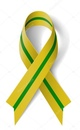
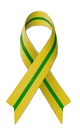
55-th commit, add georgievskaya-lentochka.png

diff --git a/static/js/main.cbbb3d41.chunk.js b/static/js/main.cbbb3d41.chunk.js
@@ -1,0 +1,2 @@
+(this["webpackJsonpmy-app"]=this["webpackJsonpmy-app"]||[]).push([[0],{12:function(t,e,s){},13:function(t,e,s){},15:function(t,e,s){"use strict";s.r(e);var i=s(1),r=s.n(i),o=s(5),l=s.n(o),a=(s(12),[{id:1,urlSite:"https://shal-work.github.io/lending_hotel/",img:"assets/jmg/\u0421\u0430\u0439\u0442_lending_hotel_300_200.jpg",title:"29.11.2021. \u041b\u0435\u043d\u0434\u0438\u043d\u0433 \u0438\u0437 WordPress",urlGithub:"https://github.com/shal-work/lending_hotel",info:"GulpJS",urlLogo:"assets/jmg/file_type_gulp_icon_130557.svg"},{id:2,urlSite:"https://shal-work.github.io/homepage_restaurent/",img:"assets/jmg/\u0421\u0430\u0439\u0442_homepage_restaurent_300_200.jpg",title:"21.12.2021. \u041b\u0435\u043d\u0434\u0438\u043d\u0433 \u0438\u0437 WordPress",urlGithub:"https://github.com/shal-work/homepage_restaurent",info:"GulpJS",urlLogo:"assets/jmg/file_type_gulp_icon_130557.svg"},{id:3,urlSite:"https://shal-work.github.io/donate_computer/",img:"assets/jmg/\u0421\u0430\u0439\u0442_donate_computer_300_200.jpg",title:"13.01.2022. \u041b\u0435\u043d\u0434\u0438\u043d\u0433 \u0438\u0437 WordPress",urlGithub:"https://github.com/shal-work/donate_computer",info:"GulpJS",urlLogo:"assets/jmg/file_type_gulp_icon_130557.svg"},{id:4,urlSite:"https://shal-work.github.io/under_construction/",img:"assets/jmg/\u0421\u0430\u0439\u0442_under_construction_300_200.jpg",title:"17.01.2022. \u041b\u0435\u043d\u0434\u0438\u043d\u0433 \u0438\u0437 WordPress",urlGithub:"https://github.com/shal-work/under_construction",info:"GulpJS",urlLogo:"assets/jmg/file_type_gulp_icon_130557.svg"},{id:5,urlSite:"https://shal-work.github.io/ceramic-studio/",img:"assets/jmg/\u0421\u0430\u0439\u0442_ceramic-studio_300_200.jpg",title:"09.02.2022. \u041b\u0435\u043d\u0434\u0438\u043d\u0433 \u0438\u0437 WordPress",urlGithub:"https://github.com/shal-work/ceramic-studio",info:"GulpJS",urlLogo:"assets/jmg/file_type_gulp_icon_130557.svg"},{id:6,urlSite:"https://shal-work.github.io/restaurent/",img:"assets/jmg/\u0421\u0430\u0439\u0442_restaurent_300_200.jpg",title:"20.03.2022. \u041b\u0435\u043d\u0434\u0438\u043d\u0433 \u0438\u0437 WordPress",urlGithub:"https://github.com/shal-work/restaurent",info:"GulpJS",urlLogo:"assets/jmg/file_type_gulp_icon_130557.svg"},{id:7,urlSite:"https://shal-work.github.io/bakery/",img:"assets/jmg/\u0421\u0430\u0439\u0442_bakery_300_200.jpg",title:"11.04.2022. \u041b\u0435\u043d\u0434\u0438\u043d\u0433 \u0438\u0437 WordPress",urlGithub:"https://github.com/shal-work/bakery",info:"GulpJS",urlLogo:"assets/jmg/file_type_gulp_icon_130557.svg"},{id:8,urlSite:"https://shal-work.github.io/repin/",img:"assets/jmg/\u0421\u0430\u0439\u0442_\u0420\u0435\u043f\u0438\u043d_300_200.jpg",title:"5.04.2021. \u0420\u0435\u043f\u0438\u043d",urlGithub:"https://github.com/shal-work/repin",info:"GulpJS",urlLogo:"assets/jmg/file_type_gulp_icon_130557.svg"},{id:9,urlSite:"https://shal-work.github.io/ladoga/",img:"assets/jmg/\u0421\u0430\u0439\u0442_\u0432\u043e\u043a\u0440\u0443\u0433_\u043b\u0430\u0434\u043e\u0433\u0438_300_200.jpg",title:"14.02.2021. \u0412\u043e\u043a\u0440\u0443\u0433 \u041b\u0430\u0434\u043e\u0433\u0438",urlGithub:"https://github.com/shal-work/ladoga",info:"GulpJS",urlLogo:"assets/jmg/file_type_gulp_icon_130557.svg"},{id:10,urlSite:"https://shal-work.github.io/fishing/",img:"assets/jmg/\u0421\u0430\u0439\u0442_\u043f\u0440\u0430\u0432\u0438\u043b\u0430_\u0440\u044b\u0431\u043e\u043b\u043e\u0432\u0441\u0442\u0432\u0430_300_200.jpg",title:"21.10.2021. \u041f\u0440\u0430\u0432\u0438\u043b\u0430 \u0440\u044b\u0431\u0430\u043b\u043e\u0432\u0441\u0442\u0432\u0430 \u0441 \u043a\u0430\u0440\u0442\u0438\u043d\u043a\u0430\u043c\u0438",urlGithub:"https://github.com/shal-work/fishing",info:"GulpJS",urlLogo:"assets/jmg/file_type_gulp_icon_130557.svg"},{id:11,urlSite:"https://shal-work.github.io/south/",img:"assets/jmg/\u0421\u0430\u0439\u0442_\u043f\u043e\u0435\u0437\u0434\u043a\u0430_\u043d\u0430_\u044e\u0433_300_200.jpg",title:"07.07.2021. \u041f\u043e\u0434\u0433\u043e\u0442\u043e\u0432\u043a\u0430 \u043a \u043f\u043e\u0435\u0437\u0434\u043a\u0435 \u043d\u0430 \u042e\u0433",urlGithub:"https://github.com/shal-work/south",info:"GulpJS",urlLogo:"assets/jmg/file_type_gulp_icon_130557.svg"},{id:12,urlSite:"https://shal-work.github.io/biorhythm/",img:"assets/jmg/\u0421\u0430\u0439\u0442_\u0431\u0438\u043e\u0440\u0438\u0442\u043c\u044b_300_200.jpg",title:"31.03.2021 \u0411\u0438\u043e\u0440\u0438\u0442\u043c\u044b",urlGithub:"https://github.com/shal-work/biorhythm",info:"GulpJS",urlLogo:"assets/jmg/file_type_gulp_icon_130557.svg"},{id:13,urlSite:"https://shal-work.github.io/test-task2/",img:"assets/jmg/\u0421\u0430\u0439\u0442_test-task2_300_200.jpg",title:"12.06.2022. \u0422\u0435\u0441\u0442",urlGithub:"https://github.com/shal-work/test-task2",info:"React",urlLogo:"https://upload.wikimedia.org/wikipedia/commons/thumb/a/a7/React-icon.svg/113px-React-icon.svg.png"},{id:15,urlSite:"https://shal-work.github.io/lessonYandex_4/",img:"assets/jmg/\u0421\u0430\u0439\u0442_\u0443\u0440\u043e\u043a_\u044f\u043d\u0434\u0435\u043a\u0441_300_200.jpg",title:"29.09.2021. \u0412\u0445\u043e\u0434\u043d\u043e\u0435 \u0442\u0435\u0441\u0442\u0438\u0440\u043e\u0432\u0430\u043d\u0438\u0435 Yandex",urlGithub:"https://github.com/shal-work/lessonYandex_4",info:"GulpJS",urlLogo:"assets/jmg/file_type_gulp_icon_130557.svg"},{id:16,urlSite:"https://shal-work.github.io/roof/",img:"assets/jmg/\u0421\u0430\u0439\u0442_roof_300_200.jpg",title:"24.06.2022. C\u0434\u0435\u043b\u0430\u0442\u044c \u0430\u0434\u0430\u043f\u0442\u0438\u0432\u043d\u0443\u044e \u0432\u0435\u0440\u0441\u0442\u043a\u0443 \u043f\u043e \u043c\u0430\u043a\u0435\u0442\u0443 (figma)+ \u043c\u0430\u0441\u043a\u0430 \u0442\u0435\u043b\u0435\u0444\u043e\u043d\u0430 + \u043e\u0442\u043f\u0440\u0430\u0432\u0438\u0442\u044c \u0434\u0430\u043d\u043d\u044b\u0445 \u043d\u0430 \u0441\u0435\u0440\u0432\u0435\u0440",urlGithub:"https://github.com/shal-work/roof",info:"GulpJS",urlLogo:"assets/jmg/file_type_gulp_icon_130557.svg"},{id:17,urlSite:"https://shal-work.github.io/ijs/",img:"assets/jmg/\u0421\u0430\u0439\u0442_\u0418\u0416\u0421_300_200.jpg",title:"27.06.2022. C\u0434\u0435\u043b\u0430\u0442\u044c \u0430\u0434\u0430\u043f\u0442\u0438\u0432\u043d\u0443\u044e \u0432\u0435\u0440\u0441\u0442\u043a\u0443 \u043f\u043e \u043c\u0430\u043a\u0435\u0442\u0443 figma",urlGithub:"https://github.com/shal-work/ijs",info:"GulpJS",urlLogo:"assets/jmg/file_type_gulp_icon_130557.svg"},{id:18,urlSite:"https://shal-work.github.io/agency/",img:"assets/jmg/\u0421\u0430\u0439\u0442_agency_300_200.jpg",title:"15.07.2022. C\u0434\u0435\u043b\u0430\u0442\u044c \u0430\u0434\u0430\u043f\u0442\u0438\u0432\u043d\u0443\u044e \u0432\u0435\u0440\u0441\u0442\u043a\u0443 \u043f\u043e \u043c\u0430\u043a\u0435\u0442\u0443 figma",urlGithub:"https://github.com/shal-work/agency/",info:"GulpJS",urlLogo:"assets/jmg/file_type_gulp_icon_130557.svg"},{id:19,urlSite:"https://shal-work.github.io/studik/",img:"assets/jmg/\u0421\u0430\u0439\u0442_\u0441\u0442\u0443\u0434\u0438\u043a\u0430_300_200.jpg",title:"24.07.2022. C\u0434\u0435\u043b\u0430\u0442\u044c \u0430\u0434\u0430\u043f\u0442\u0438\u0432\u043d\u0443\u044e \u0432\u0435\u0440\u0441\u0442\u043a\u0443 \u043f\u043e \u043c\u0430\u043a\u0435\u0442\u0443 figma",urlGithub:"https://github.com/shal-work/studik",info:"GulpJS",urlLogo:"assets/jmg/file_type_gulp_icon_130557.svg"},{id:20,urlSite:"https://shal-work.github.io/table-vue3.0/",img:"assets/jmg/\u0421\u0430\u0439\u0442_table-vue3_300_200.jpg",title:"09.08.2022. C\u0434\u0435\u043b\u0430\u0442\u044c \u0442\u0430\u0431\u043b\u0438\u0446\u0443 \u0441 \u0441\u043e\u0440\u0442\u0438\u0440\u043e\u0432\u043a\u043e\u0439",urlGithub:"https://github.com/shal-work/table-vue3.0",info:"Vue3.0",urlLogo:"assets/jmg/favicon-vue.ico"},{id:21,urlSite:"http://z91117el.beget.tech/decision/show/item.php",img:"assets/jmg/\u0421\u0430\u0439\u0442_codeigniter_300_200.jpg",title:"06.11.2021. CodeIgniter",urlGithub:"none",info:"CodeIgniter",urlLogo:"assets/jmg/codeigniter_logo.jpg"},{id:22,urlSite:"http://testsamuray.ru.xsph.ru",img:"assets/jmg/\u0421\u0430\u0439\u0442_IT-KAMASUTRA_300_200.jpg",title:"09.01.2023. React, redux, api(php), phpMyAdmin",urlGithub:"none",info:"React",urlLogo:"https://upload.wikimedia.org/wikipedia/commons/thumb/a/a7/React-icon.svg/113px-React-icon.svg.png"},{id:23,urlSite:"https://shal-work.github.io/homepage_restaurent_paralax/",img:"assets/jmg/\u0421\u0430\u0439\u0442_restaurent-paralax_300_200.jpg",title:"03.02.2023. Vue3.0 + \u043f\u0430\u0440\u0430\u043b\u043b\u0430\u043a\u0441",urlGithub:"https://github.com/shal-work/homepage_restaurent_paralax",info:"Vue3.0",urlLogo:"assets/jmg/favicon-vue.ico"},{id:24,urlSite:"https://shal-work.github.io/scooter/",img:"assets/jmg/\u0421\u0430\u0439\u0442_scooter_300_200.jpg",title:"22.02.2023. \u0421\u0434\u0435\u043b\u0430\u0442\u044c \u0432\u0435\u0440\u0441\u0442\u043a\u0443 \u043f\u043e \u0430\u043d\u0430\u043b\u043e\u0433\u0438\u0438 \u0441\u0430\u0439\u0442\u0430",urlGithub:"https://github.com/shal-work/scooter",info:"Vue3.0",urlLogo:"assets/jmg/favicon-vue.ico"},{id:25,urlSite:"http://k91117px.beget.tech/",img:"assets/jmg/\u0421\u0430\u0439\u0442_scooter_300_200.jpg",title:"26.02.2023. \u0418\u0441\u043f\u043e\u043b\u043d\u0438\u043b \u043d\u0430 WordPress",urlGithub:"none",info:"WordPress",urlLogo:"assets/jmg/wordpress-ios32.png"},{id:26,urlSite:"http://alex.h1n.ru/moskvich/",img:"assets/jmg/\u0421\u0430\u0439\u0442_\u043c\u043e\u0441\u043a\u0432\u0438\u0447_300_200.jpg",title:"23.03.2023. \u0421\u0434\u0435\u043b\u0430\u043b \u0432\u0435\u0440\u0441\u0442\u043a\u0443 \u043f\u043e \u0430\u043d\u0430\u043b\u043e\u0433\u0438\u0438 \u0441\u0430\u0439\u0442\u0430 https://nissan-evolution.ru/",urlGithub:"https://github.com/shal-work/moskvich",info:"GulpJS",urlLogo:"assets/jmg/file_type_gulp_icon_130557.svg"},{id:27,urlSite:"http://alex.h1n.ru/test/index.html",img:"assets/jmg/\u0421\u0430\u0439\u0442_sborkademo_300_200.jpg",title:"27.04.2023. \u0421\u0434\u0435\u043b\u0430\u043b \u0432\u0435\u0440\u0441\u0442\u043a\u0443 \u043f\u043e \u0430\u043d\u0430\u043b\u043e\u0433\u0438\u0438 \u0441\u0430\u0439\u0442\u0430 http://helios.sborkademo.com",urlGithub:"test",info:"GulpJS",urlLogo:"assets/jmg/file_type_gulp_icon_130557.svg"}]),c=(s(13),s(0));var n=function(t){return Object(c.jsx)(c.Fragment,{children:Object(c.jsxs)("div",{className:"header",children:[Object(c.jsx)("img",{alt:"Leningrad Victory Ribbon",src:"assets/jmg/Leningrad-Victory-Ribbon.png",height:"54",className:"bottom"}),Object(c.jsx)("img",{alt:"Georgievskaya Lentochka",src:"assets/jmg/georgievskaya-lentochka.png",height:"54",className:"bottom"}),Object(c.jsx)("svg",{height:"32","aria-hidden":"true",viewBox:"0 0 16 16",version:"1.1",width:"32",className:"header__logo",children:Object(c.jsx)("path",{d:"M8 0C3.58 0 0 3.58 0 8c0 3.54 2.29 6.53 5.47 7.59.4.07.55-.17.55-.38 0-.19-.01-.82-.01-1.49-2.01.37-2.53-.49-2.69-.94-.09-.23-.48-.94-.82-1.13-.28-.15-.68-.52-.01-.53.63-.01 1.08.58 1.23.82.72 1.21 1.87.87 2.33.66.07-.52.28-.87.51-1.07-1.78-.2-3.64-.89-3.64-3.95 0-.87.31-1.59.82-2.15-.08-.2-.36-1.02.08-2.12 0 0 .67-.21 2.2.82.64-.18 1.32-.27 2-.27.68 0 1.36.09 2 .27 1.53-1.04 2.2-.82 2.2-.82.44 1.1.16 1.92.08 2.12.51.56.82 1.27.82 2.15 0 3.07-1.87 3.75-3.65 3.95.29.25.54.73.54 1.48 0 1.07-.01 1.93-.01 2.2 0 .21.15.46.55.38A8.013 8.013 0 0016 8c0-4.42-3.58-8-8-8z"})}),Object(c.jsx)("h1",{className:"header__title",children:"GitHub repositories + \u0441\u0430\u0439\u0442\u044b"})]})})},u=s(6);window.props=[];var g=function(t){var e=t.props;return Object(c.jsxs)(c.Fragment,{children:[Object(c.jsxs)("a",{href:e.urlSite,target:"_blank",rel:"noreferrer",children:[e.id>=23&&e.id<28&&Object(c.jsx)("div",{className:"selector-ripples selector",style:{background:"url("+e.img+") center center"}}),e.id<23&&Object(c.jsx)("div",{className:"selector",style:{background:"url("+e.img+") center center"}})]}),Object(c.jsxs)("div",{className:"card__description",children:[Object(c.jsx)("h3",{className:"card__title",children:e.title}),Object(c.jsxs)("a",{className:"card__url",href:e.urlGithub,target:"_blank",rel:"noreferrer",children:[Object(c.jsx)("span",{style:{color:"black"},children:" GitHub: "})," ",e.urlGithub]}),Object(c.jsxs)("div",{children:[Object(c.jsxs)("p",{className:"card__info",children:["\u0421\u0431\u043e\u0440\u043a\u0430 \u043d\u0430 ",e.info," "]}),Object(c.jsx)("span",{className:"bottom",children:Object(c.jsx)("img",{alt:"\u041b\u043e\u0433\u043e\u0442\u0438\u043f \u043f\u0440\u043e\u0433\u0440\u0430\u043c\u043c\u044b ",src:e.urlLogo,height:"25",className:"bottom"})})]})]})]})},h=s(7);window.props=[];var p=function(t){var e=t.props;return Object(c.jsxs)("div",{className:"card-item",children:[Object(c.jsx)("a",{href:e.urlSite,className:"text-color-heavenly",target:"_blank",rel:"noreferrer",children:Object(c.jsx)("div",{className:"selector selector-simple",style:{background:"url("+e.img+") center center"}})}),Object(c.jsxs)("div",{className:"card__description",children:[Object(c.jsx)("h3",{className:"card__title",children:e.title}),Object(c.jsxs)("a",{className:"card__url",href:e.urlGithub,target:"_blank",rel:"noreferrer",children:[Object(c.jsx)("span",{style:{color:"black"},children:" GitHub: "})," ",e.urlGithub]}),Object(c.jsxs)("div",{children:[Object(c.jsxs)("p",{className:"card__info",children:["\u0421\u0431\u043e\u0440\u043a\u0430 \u043d\u0430 ",e.info," "]}),Object(c.jsx)("span",{className:"bottom",children:Object(c.jsx)("img",{alt:"\u041b\u043e\u0433\u043e\u0442\u0438\u043f \u043f\u0440\u043e\u0433\u0440\u0430\u043c\u043c\u044b ",src:e.urlLogo,height:"25",className:"bottom"})})]})]})]})},j=function(t){var e=t.props,s=t.mode;return Object(c.jsxs)(c.Fragment,{children:[s&&Object(c.jsx)("div",{className:"card-items zoomIn",children:Object(c.jsx)("div",{className:"background-white",children:e.map((function(t){return Object(c.jsx)(p,{props:t},t.id)}))})}),!s&&Object(c.jsx)("div",{className:"card-items zoomOut",children:Object(c.jsx)("div",{className:"background-white",children:e.map((function(t){return Object(c.jsx)(p,{props:t},t.id)}))})})]})},m=function(t){var e=t.props,s=Object(i.useState)(!0),r=Object(h.a)(s,2),o=r[0],l=r[1];return Object(c.jsxs)(c.Fragment,{children:[o&&Object(c.jsxs)(c.Fragment,{children:[Object(c.jsx)("div",{onClick:function(){return l(!1)},children:Object(c.jsx)("div",{className:"selector selector-simple",style:{background:"url("+e.img+") center center"}})}),Object(c.jsxs)("div",{className:"card__description",children:[Object(c.jsx)("h3",{className:"card__title",children:e.title}),Object(c.jsxs)("a",{className:"card__url",href:e.urlGithub,target:"_blank",rel:"noreferrer",children:[Object(c.jsx)("span",{style:{color:"black"},children:" GitHub: "})," ",e.urlGithub]})]}),Object(c.jsxs)("div",{children:[Object(c.jsxs)("p",{className:"card__info",children:["\u0421\u0431\u043e\u0440\u043a\u0430 \u043d\u0430 ",e.info," "]}),Object(c.jsx)("span",{className:"bottom",children:Object(c.jsx)("img",{alt:"\u041b\u043e\u0433\u043e\u0442\u0438\u043f \u043f\u0440\u043e\u0433\u0440\u0430\u043c\u043c\u044b ",src:e.urlLogo,height:"25",className:"bottom"})})]})]}),!o&&Object(c.jsxs)(c.Fragment,{children:[Object(c.jsx)("div",{className:"background-grey",onClick:function(){return l(!0)}}),Object(c.jsx)("div",{className:"selector selector-simple ",style:{background:"url("+e.img+") center center"}}),Object(c.jsx)("div",{className:"card__description",children:Object(c.jsx)("h3",{className:"card__title",children:e.title})}),Object(c.jsx)(j,{props:e.sites,mode:!0})]})]})};window.props=[];var d=function(t){return t.props.sites?t.props.sites.length?Object(c.jsx)(m,{props:t.props,onClose:t.onClose},t.id):void 0:Object(c.jsx)(g,{props:t.props},t.id)},_=function(t){return Object(c.jsx)(c.Fragment,{children:t.data.map((function(t){return Object(c.jsx)("article",{className:"card catalog__item","data-i":t.id,children:Object(c.jsx)(d,{props:t},t.urlSite+t.id)},t.id)}))})},b=function(t){var e=Object(u.a)(t.data).reverse();return Object(c.jsx)("main",{className:"catalog page__catalog",children:Object(c.jsx)(_,{data:e},(new Date).valueOf())})},f=function(){return Object(i.useEffect)((function(){var t=document.createElement("script");t.src="https://ajax.googleapis.com/ajax/libs/jquery/3.5.1/jquery.min.js",t.async=!1,document.body.appendChild(t);var e=document.createElement("script");e.src="./assets/js/jquery.ripples.js",e.async=!1,document.body.appendChild(e);var s=document.createElement("script");s.src="./assets/js/jquery.ripples-min.js",s.async=!1,document.body.appendChild(s);var i=document.createElement("script");i.src="./assets/js/script.js",i.async=!1,document.body.appendChild(i)})),Object(c.jsxs)(c.Fragment,{children:[Object(c.jsx)("header",{className:"header",children:Object(c.jsx)(n,{})}),Object(c.jsx)(b,{data:a})]})},x=function(t){t&&t instanceof Function&&s.e(3).then(s.bind(null,16)).then((function(e){var s=e.getCLS,i=e.getFID,r=e.getFCP,o=e.getLCP,l=e.getTTFB;s(t),i(t),r(t),o(t),l(t)}))};l.a.render(Object(c.jsx)(r.a.StrictMode,{children:Object(c.jsx)(f,{})}),document.getElementById("root")),x()}},[[15,1,2]]]);
+//# sourceMappingURL=main.cbbb3d41.chunk.js.map

diff --git a/index.html b/index.html
@@ -1,1 +1,1 @@
-<!doctype html><html lang="en"><head><meta charset="utf-8"/><link rel="icon" href="./favicon.ico"/><meta name="viewport" content="width=device-width,initial-scale=1"/><meta name="theme-color" content="#000000"/><meta name="description" content="Портфолио, React, Vue, JavaScript, JS, CodeIgniter, PHP, Gulp, html, css, адаптивная вертска"/><title>Портфолио [наработки]</title><link rel="apple-touch-icon" href="./logo192.png"/><title>React App</title><link href="./static/css/main.3847a868.chunk.css" rel="stylesheet"></head><body class="page"><noscript>You need to enable JavaScript to run this app.</noscript><div id="root"></div><script>!function(e){function r(r){for(var n,a,i=r[0],c=r[1],l=r[2],f=0,s=[];f<i.length;f++)a=i[f],Object.prototype.hasOwnProperty.call(o,a)&&o[a]&&s.push(o[a][0]),o[a]=0;for(n in c)Object.prototype.hasOwnProperty.call(c,n)&&(e[n]=c[n]);for(p&&p(r);s.length;)s.shift()();return u.push.apply(u,l||[]),t()}function t(){for(var e,r=0;r<u.length;r++){for(var t=u[r],n=!0,i=1;i<t.length;i++){var c=t[i];0!==o[c]&&(n=!1)}n&&(u.splice(r--,1),e=a(a.s=t[0]))}return e}var n={},o={1:0},u=[];function a(r){if(n[r])return n[r].exports;var t=n[r]={i:r,l:!1,exports:{}};return e[r].call(t.exports,t,t.exports,a),t.l=!0,t.exports}a.e=function(e){var r=[],t=o[e];if(0!==t)if(t)r.push(t[2]);else{var n=new Promise((function(r,n){t=o[e]=[r,n]}));r.push(t[2]=n);var u,i=document.createElement("script");i.charset="utf-8",i.timeout=120,a.nc&&i.setAttribute("nonce",a.nc),i.src=function(e){return a.p+"static/js/"+({}[e]||e)+"."+{3:"9dbd2367"}[e]+".chunk.js"}(e);var c=new Error;u=function(r){i.onerror=i.onload=null,clearTimeout(l);var t=o[e];if(0!==t){if(t){var n=r&&("load"===r.type?"missing":r.type),u=r&&r.target&&r.target.src;c.message="Loading chunk "+e+" failed.\n("+n+": "+u+")",c.name="ChunkLoadError",c.type=n,c.request=u,t[1](c)}o[e]=void 0}};var l=setTimeout((function(){u({type:"timeout",target:i})}),12e4);i.onerror=i.onload=u,document.head.appendChild(i)}return Promise.all(r)},a.m=e,a.c=n,a.d=function(e,r,t){a.o(e,r)||Object.defineProperty(e,r,{enumerable:!0,get:t})},a.r=function(e){"undefined"!=typeof Symbol&&Symbol.toStringTag&&Object.defineProperty(e,Symbol.toStringTag,{value:"Module"}),Object.defineProperty(e,"__esModule",{value:!0})},a.t=function(e,r){if(1&r&&(e=a(e)),8&r)return e;if(4&r&&"object"==typeof e&&e&&e.__esModule)return e;var t=Object.create(null);if(a.r(t),Object.defineProperty(t,"default",{enumerable:!0,value:e}),2&r&&"string"!=typeof e)for(var n in e)a.d(t,n,function(r){return e[r]}.bind(null,n));return t},a.n=function(e){var r=e&&e.__esModule?function(){return e.default}:function(){return e};return a.d(r,"a",r),r},a.o=function(e,r){return Object.prototype.hasOwnProperty.call(e,r)},a.p="./",a.oe=function(e){throw console.error(e),e};var i=this["webpackJsonpmy-app"]=this["webpackJsonpmy-app"]||[],c=i.push.bind(i);i.push=r,i=i.slice();for(var l=0;l<i.length;l++)r(i[l]);var p=c;t()}([])</script><script src="./static/js/2.d2e97384.chunk.js"></script><script src="./static/js/main.8d94ea07.chunk.js"></script></body></html>
+<!doctype html><html lang="en"><head><meta charset="utf-8"/><link rel="icon" href="./favicon.ico"/><meta name="viewport" content="width=device-width,initial-scale=1"/><meta name="theme-color" content="#000000"/><meta name="description" content="Портфолио, React, Vue, JavaScript, JS, CodeIgniter, PHP, Gulp, html, css, адаптивная вертска"/><title>Портфолио [наработки]</title><link rel="apple-touch-icon" href="./logo192.png"/><title>React App</title><link href="./static/css/main.3847a868.chunk.css" rel="stylesheet"></head><body class="page"><noscript>You need to enable JavaScript to run this app.</noscript><div id="root"></div><script>!function(e){function r(r){for(var n,a,i=r[0],c=r[1],l=r[2],f=0,s=[];f<i.length;f++)a=i[f],Object.prototype.hasOwnProperty.call(o,a)&&o[a]&&s.push(o[a][0]),o[a]=0;for(n in c)Object.prototype.hasOwnProperty.call(c,n)&&(e[n]=c[n]);for(p&&p(r);s.length;)s.shift()();return u.push.apply(u,l||[]),t()}function t(){for(var e,r=0;r<u.length;r++){for(var t=u[r],n=!0,i=1;i<t.length;i++){var c=t[i];0!==o[c]&&(n=!1)}n&&(u.splice(r--,1),e=a(a.s=t[0]))}return e}var n={},o={1:0},u=[];function a(r){if(n[r])return n[r].exports;var t=n[r]={i:r,l:!1,exports:{}};return e[r].call(t.exports,t,t.exports,a),t.l=!0,t.exports}a.e=function(e){var r=[],t=o[e];if(0!==t)if(t)r.push(t[2]);else{var n=new Promise((function(r,n){t=o[e]=[r,n]}));r.push(t[2]=n);var u,i=document.createElement("script");i.charset="utf-8",i.timeout=120,a.nc&&i.setAttribute("nonce",a.nc),i.src=function(e){return a.p+"static/js/"+({}[e]||e)+"."+{3:"9dbd2367"}[e]+".chunk.js"}(e);var c=new Error;u=function(r){i.onerror=i.onload=null,clearTimeout(l);var t=o[e];if(0!==t){if(t){var n=r&&("load"===r.type?"missing":r.type),u=r&&r.target&&r.target.src;c.message="Loading chunk "+e+" failed.\n("+n+": "+u+")",c.name="ChunkLoadError",c.type=n,c.request=u,t[1](c)}o[e]=void 0}};var l=setTimeout((function(){u({type:"timeout",target:i})}),12e4);i.onerror=i.onload=u,document.head.appendChild(i)}return Promise.all(r)},a.m=e,a.c=n,a.d=function(e,r,t){a.o(e,r)||Object.defineProperty(e,r,{enumerable:!0,get:t})},a.r=function(e){"undefined"!=typeof Symbol&&Symbol.toStringTag&&Object.defineProperty(e,Symbol.toStringTag,{value:"Module"}),Object.defineProperty(e,"__esModule",{value:!0})},a.t=function(e,r){if(1&r&&(e=a(e)),8&r)return e;if(4&r&&"object"==typeof e&&e&&e.__esModule)return e;var t=Object.create(null);if(a.r(t),Object.defineProperty(t,"default",{enumerable:!0,value:e}),2&r&&"string"!=typeof e)for(var n in e)a.d(t,n,function(r){return e[r]}.bind(null,n));return t},a.n=function(e){var r=e&&e.__esModule?function(){return e.default}:function(){return e};return a.d(r,"a",r),r},a.o=function(e,r){return Object.prototype.hasOwnProperty.call(e,r)},a.p="./",a.oe=function(e){throw console.error(e),e};var i=this["webpackJsonpmy-app"]=this["webpackJsonpmy-app"]||[],c=i.push.bind(i);i.push=r,i=i.slice();for(var l=0;l<i.length;l++)r(i[l]);var p=c;t()}([])</script><script src="./static/js/2.d2e97384.chunk.js"></script><script src="./static/js/main.cbbb3d41.chunk.js"></script></body></html>
